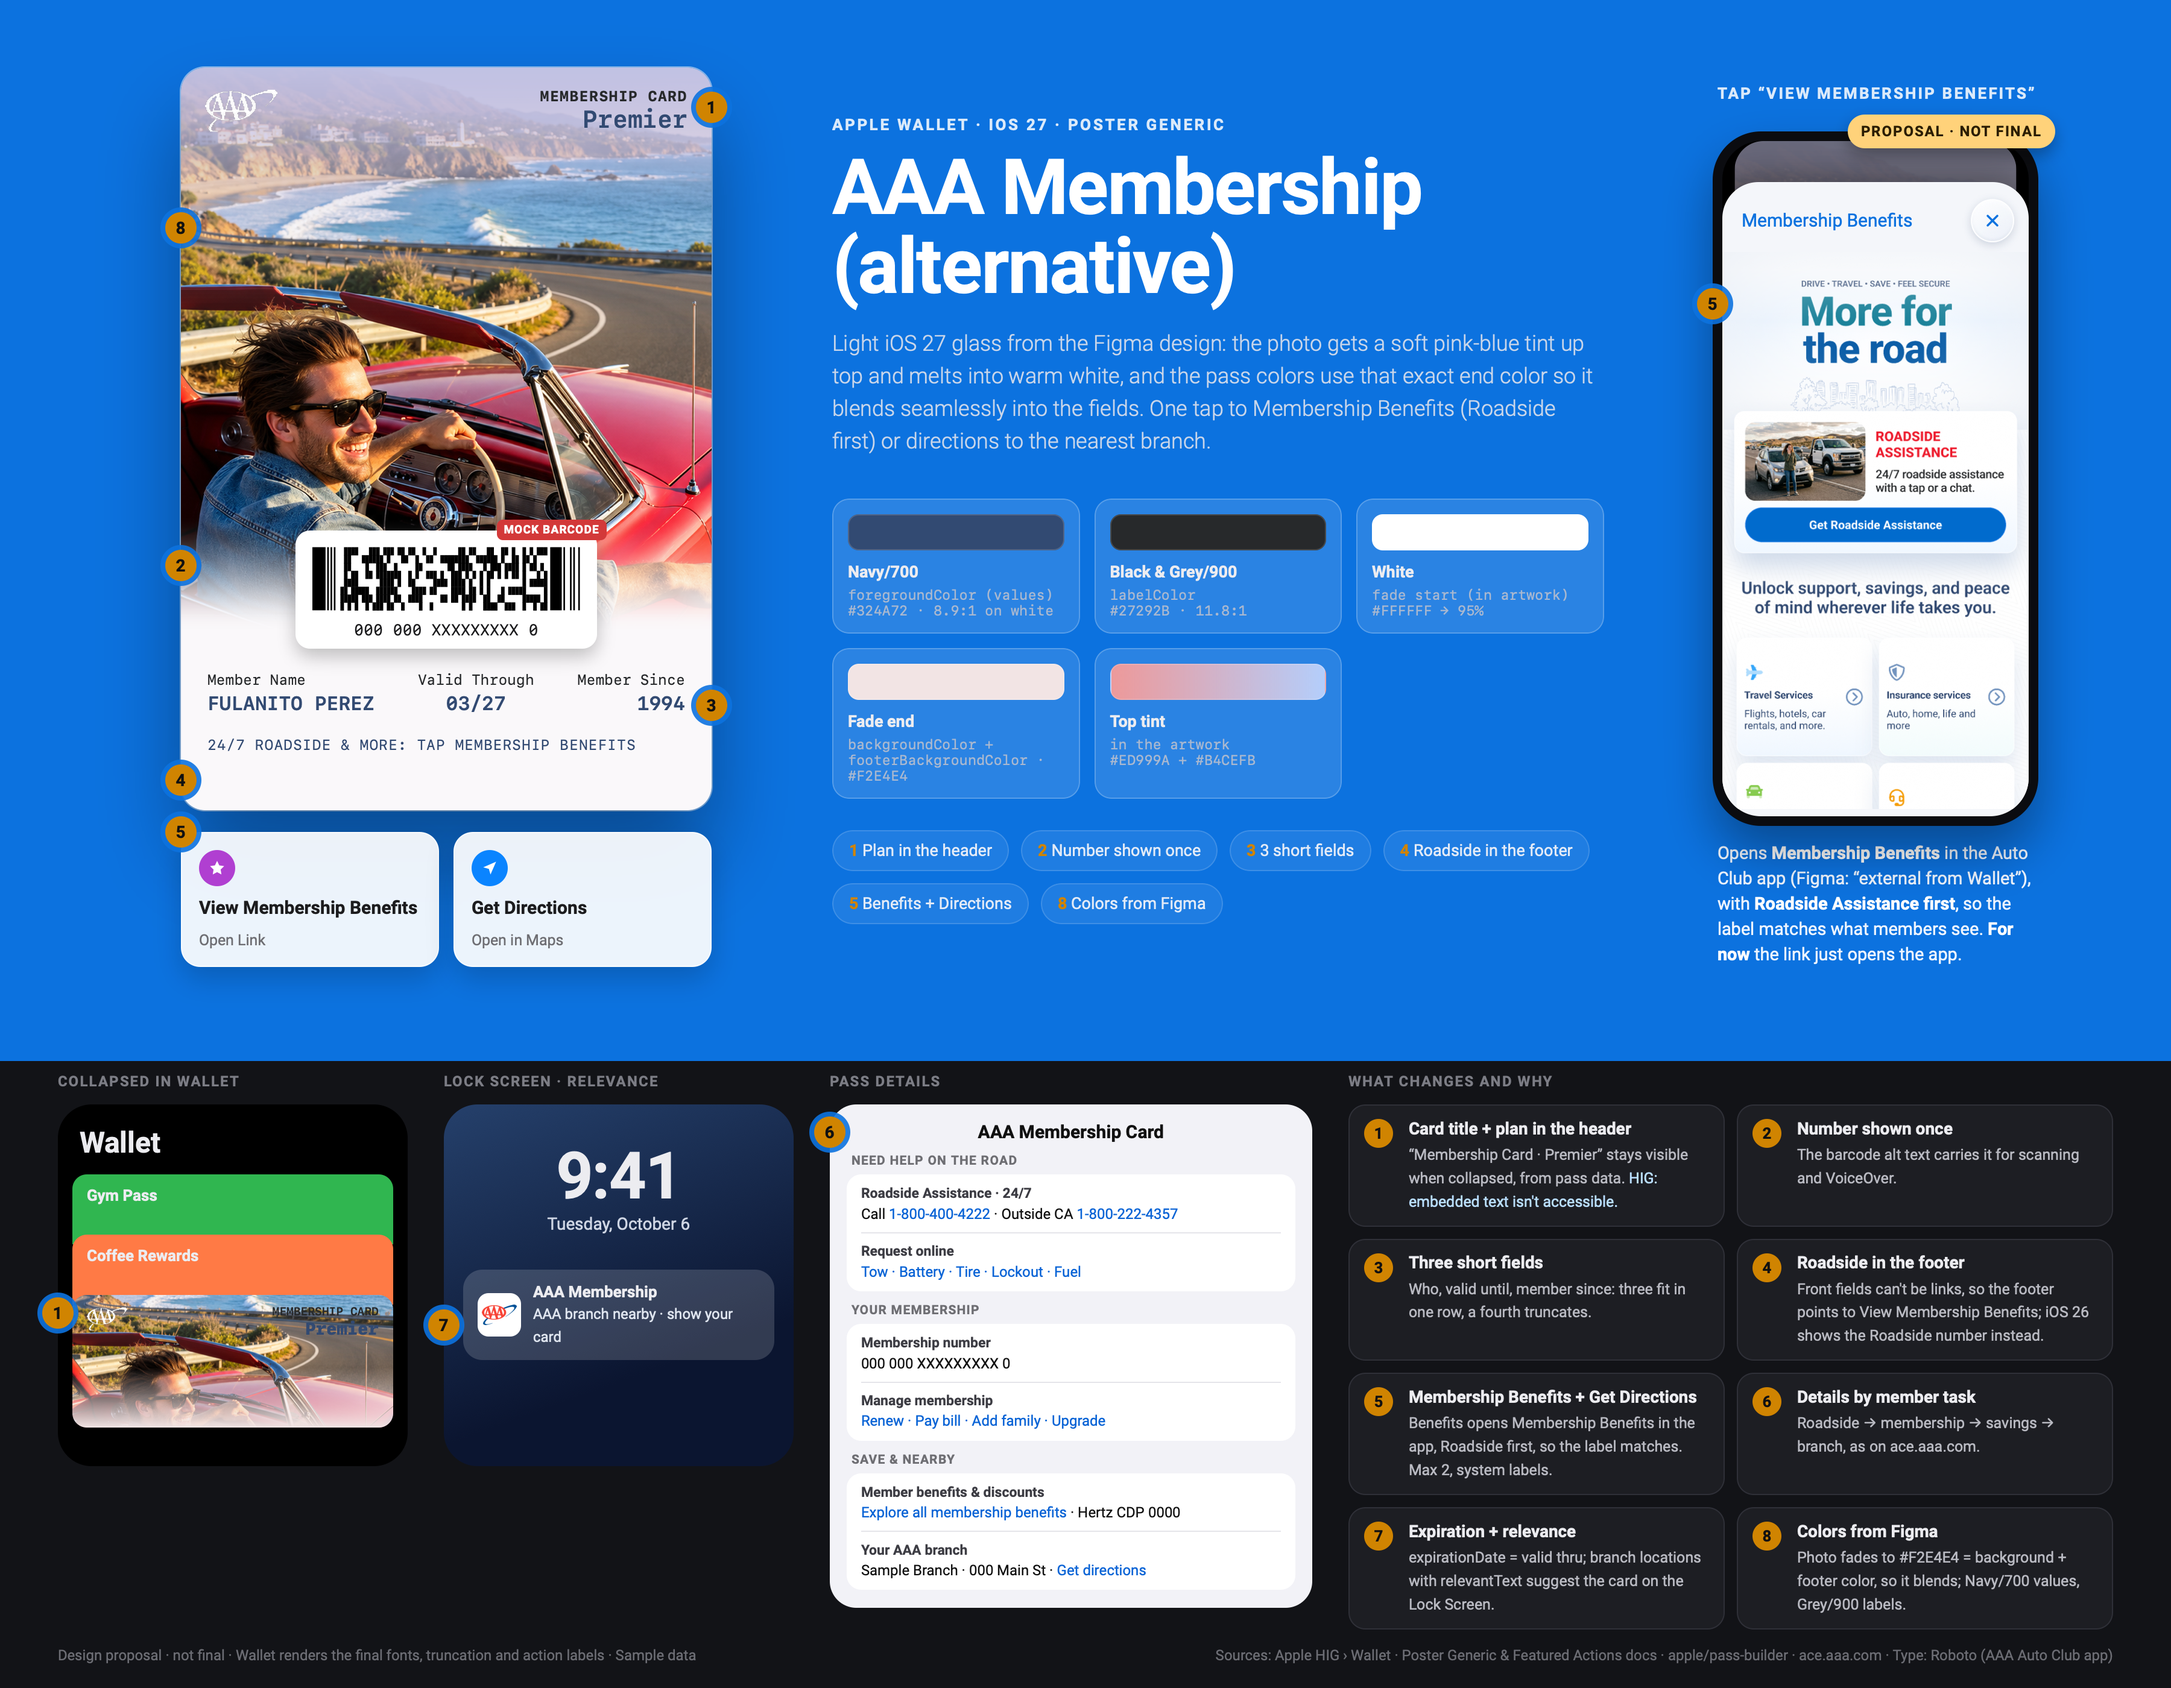
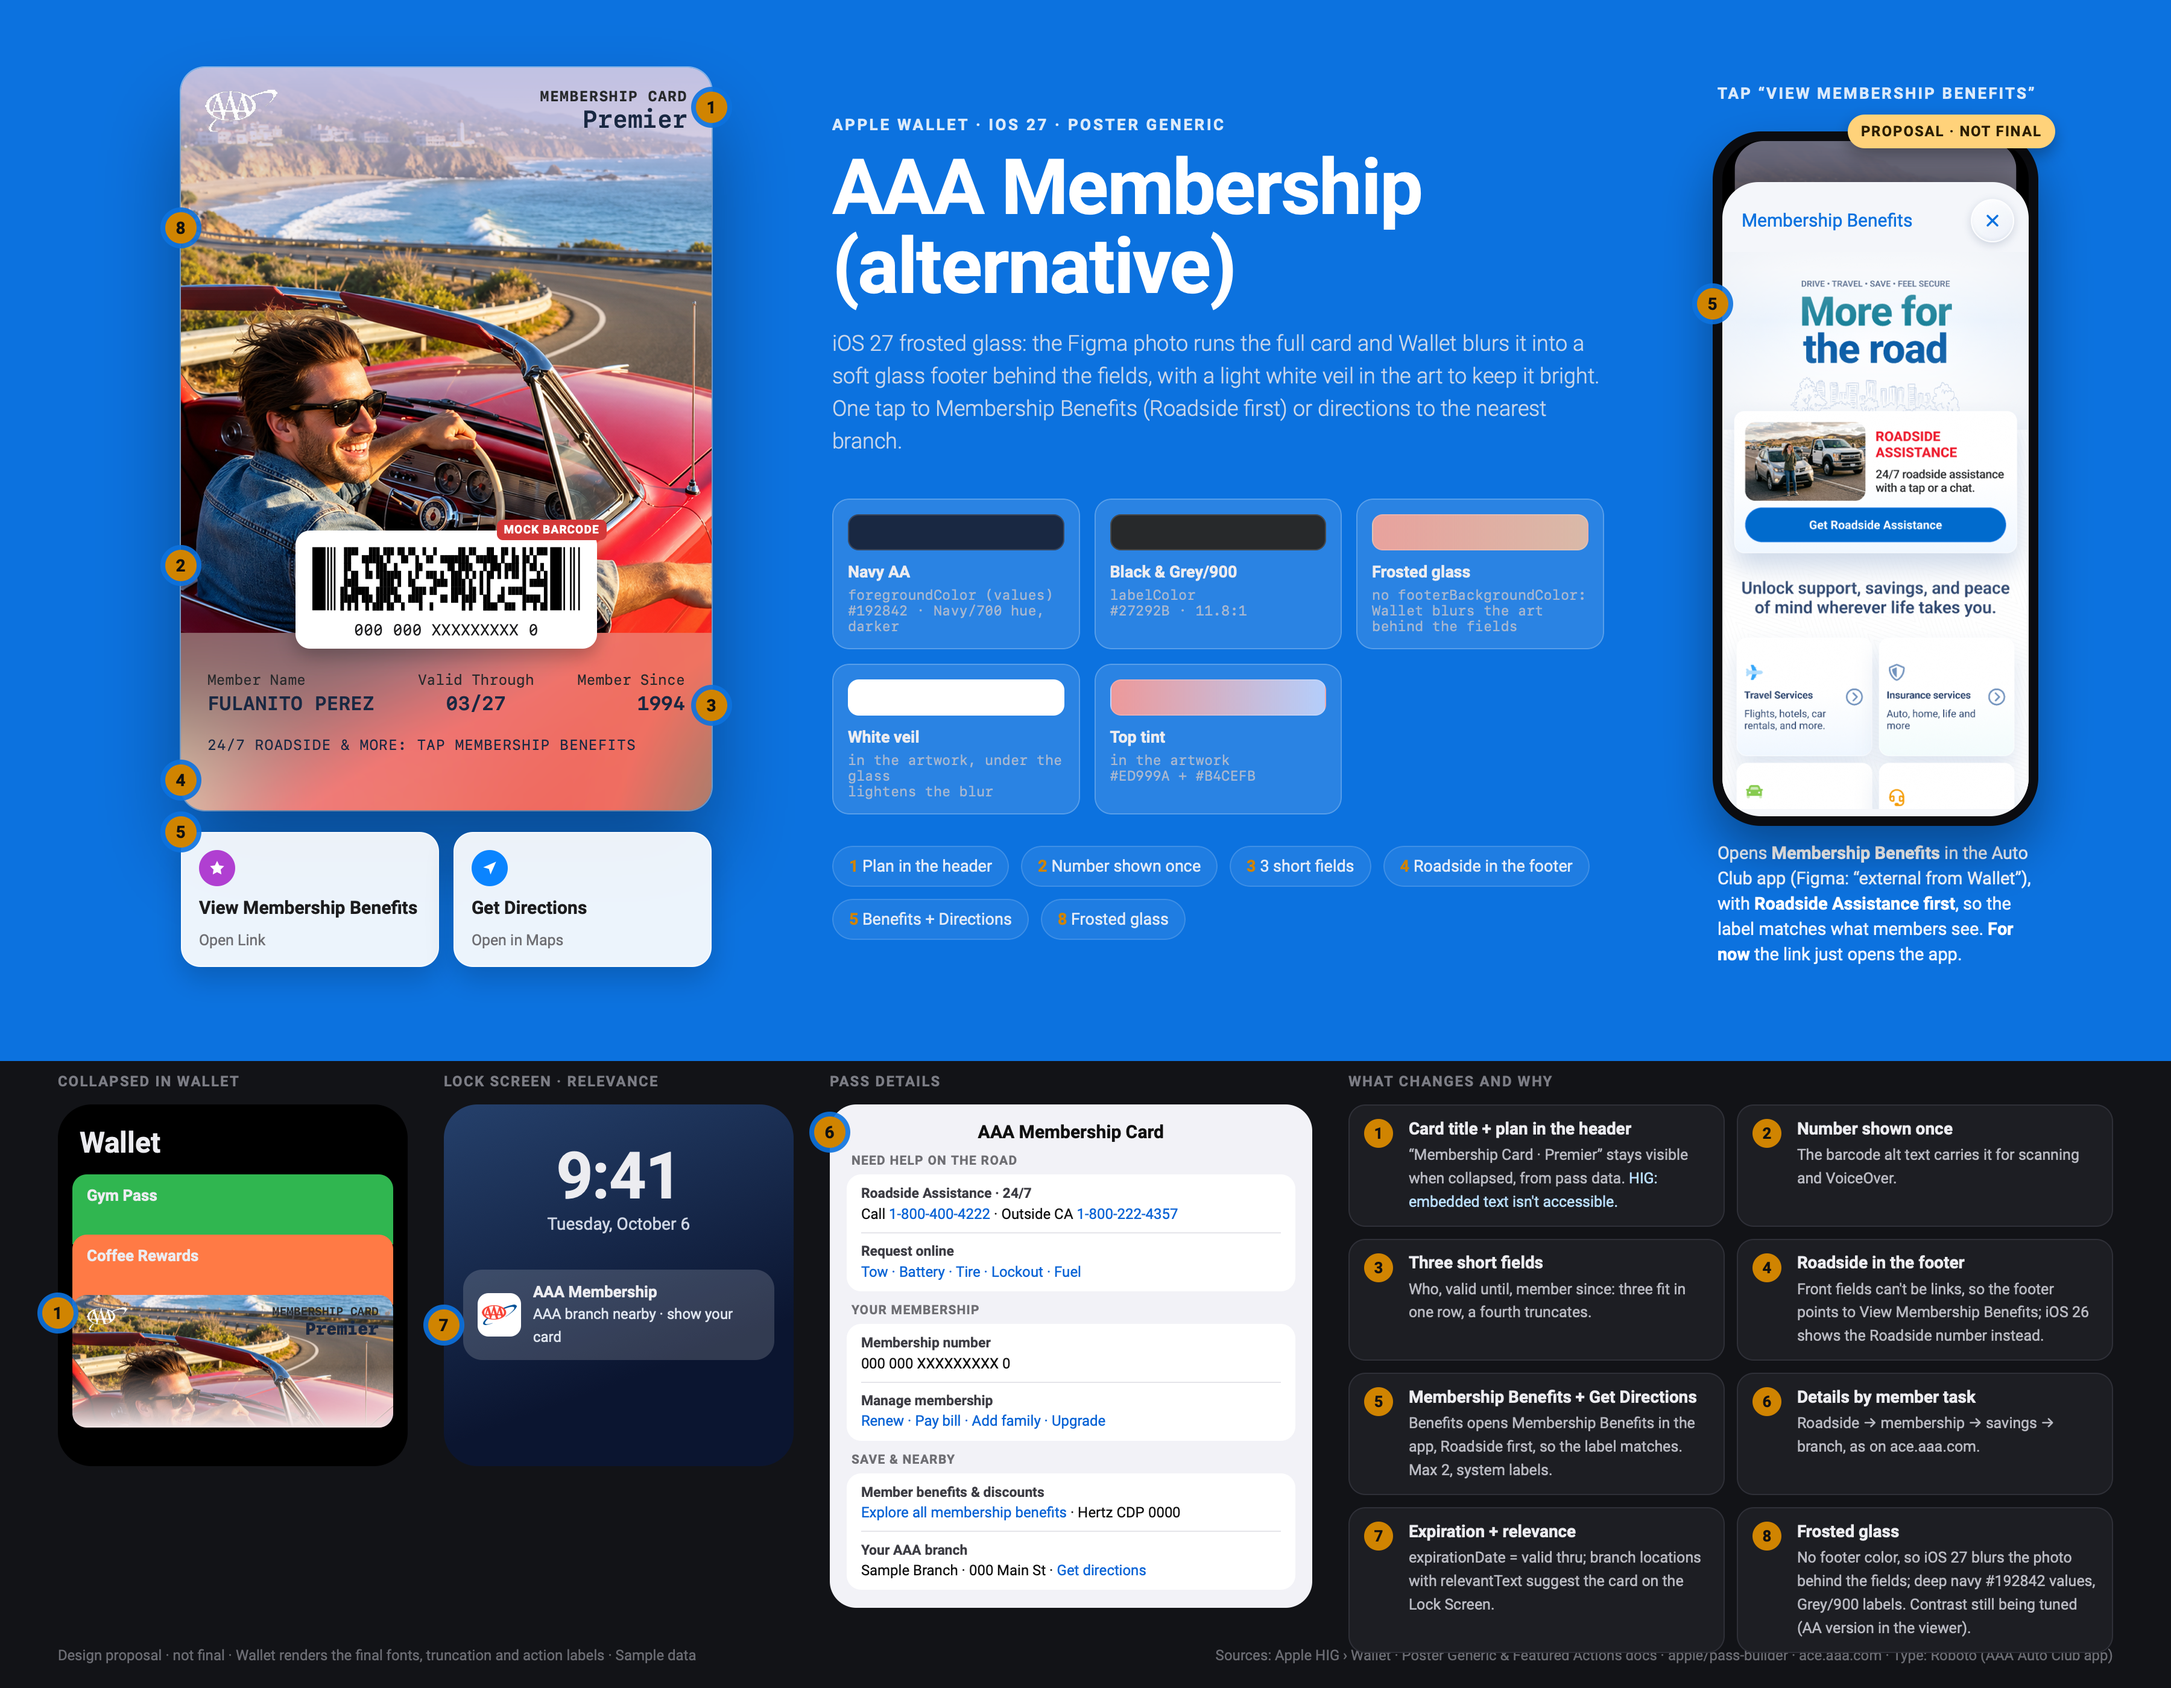
Proposal boards: iOS 27 frosted-glass look (Blur Glass membership, Alternative insurance), readable deep navy text

diff --git a/index.html b/index.html
@@ -735,18 +735,18 @@ html[data-theme="light"] .picker button.on,html[data-theme="light"] .vmode butto
     <section class="proposal" aria-labelledby="proposalTitle">
       <div class="proposal-h">
         <div><h2 id="proposalTitle">Design proposals <span class="credit">(the image canvas below and strings made by Claude, i just did the pass design and the web)</span></h2>
-        <p>A different take on both cards, now in the light iOS 27 glass look from the Figma design (iOS 27 WALLET page): Figma’s photos and top tints, the photo melts into the footer color set in the pass (#F2E4E4, like Pass Designer’s gradient), values in Navy/700 and labels in Grey/900. Everything here is stuff Apple Wallet actually supports. Grab one with Download template and drag it onto this page (or open it in Pass Designer), or just hit Open in viewer. The Membership and Insurance cards up top stay as they are.</p></div>
+        <p>A different take on both cards in the iOS 27 frosted-glass look from the Figma design (iOS 27 WALLET page): Figma’s photos run the full card and Wallet blurs them into a glass footer behind the fields, with deep navy (#192842) values and Grey/900 labels so the text stays readable. These are the nicer-looking versions; contrast is still being tuned (see the AA cards above). Everything here is stuff Apple Wallet actually supports. Grab one with Download template and drag it onto this page (or open it in Pass Designer), or just hit Open in viewer. The Membership and Insurance cards up top stay as they are.</p></div>
       </div>
       <div class="proposal-grid">
         <figure>
-          <figcaption><b>AAA Membership (alternative)</b><span class="fig-actions"><button type="button" data-tpl-dl="AAA Membership Card (Alternative).pkpasstemplate">Download template</button><button type="button" data-tpl-open="AAA Membership Card (Alternative).pkpasstemplate">Open in viewer</button><a href="proposal/aaa-membership-alternative@full.png" target="_blank" rel="noopener">Full size ↗</a></span></figcaption>
-          <a href="proposal/aaa-membership-alternative@full.png" target="_blank" rel="noopener" class="proposal-img"><img src="proposal/aaa-membership-alternative.jpg" loading="lazy" width="2400" height="1866"
-            alt="AAA Membership (alternative) in the light Figma glass design: the coastal convertible photo with a soft pink-blue tint melting into warm white, Membership Card · Premier header, barcode, member name, valid-through and member-since fields, the Membership Benefits footer, white View Membership Benefits and Get Directions actions, the Figma color palette, and the Membership Benefits screen marked proposal, not final. Below: collapsed card, Lock Screen suggestion, Pass Details and eight numbered notes."></a>
+          <figcaption><b>AAA Membership (alternative)</b><span class="fig-actions"><button type="button" data-tpl-dl="AAA Membership Card (Alternative Blur Glass).pkpasstemplate">Download template</button><button type="button" data-tpl-open="AAA Membership Card (Alternative Blur Glass).pkpasstemplate">Open in viewer</button><a href="proposal/aaa-membership-alternative@full.png?v=20261016" target="_blank" rel="noopener">Full size ↗</a></span></figcaption>
+          <a href="proposal/aaa-membership-alternative@full.png?v=20261016" target="_blank" rel="noopener" class="proposal-img"><img src="proposal/aaa-membership-alternative.jpg?v=20261016" loading="lazy" width="2400" height="1866"
+            alt="AAA Membership (alternative) in the iOS 27 frosted-glass design: the coastal convertible photo runs the full card and blurs into a glass footer behind the deep navy fields, barcode overlapping the glass, Membership Card · Premier header, and View Membership Benefits and Get Directions actions"></a>
         </figure>
         <figure>
-          <figcaption><b>AAA Insurance (alternative)</b><span class="fig-actions"><button type="button" data-tpl-dl="AAA Insurance Card (Alternative).pkpasstemplate">Download template</button><button type="button" data-tpl-open="AAA Insurance Card (Alternative).pkpasstemplate">Open in viewer</button><a href="proposal/aaa-insurance-alternative@full.png" target="_blank" rel="noopener">Full size ↗</a></span></figcaption>
-          <a href="proposal/aaa-insurance-alternative@full.png" target="_blank" rel="noopener" class="proposal-img"><img src="proposal/aaa-insurance-alternative.jpg" loading="lazy" width="2400" height="1866"
-            alt="AAA Insurance (alternative) in the light Figma glass design: the LA sunset photo with palms melting into warm white, CA Evidence of Liability · Auto Insurance Card header, name ensured, policy number and effective fields, the company in the footer, white View Membership Benefits and Get Directions actions, the Figma color palette, and the Membership Benefits screen marked proposal, not final. Below: collapsed card, Lock Screen suggestion, Pass Details and eight numbered notes."></a>
+          <figcaption><b>AAA Insurance (alternative)</b><span class="fig-actions"><button type="button" data-tpl-dl="AAA Insurance Card (Alternative).pkpasstemplate">Download template</button><button type="button" data-tpl-open="AAA Insurance Card (Alternative).pkpasstemplate">Open in viewer</button><a href="proposal/aaa-insurance-alternative@full.png?v=20261016" target="_blank" rel="noopener">Full size ↗</a></span></figcaption>
+          <a href="proposal/aaa-insurance-alternative@full.png?v=20261016" target="_blank" rel="noopener" class="proposal-img"><img src="proposal/aaa-insurance-alternative.jpg?v=20261016" loading="lazy" width="2400" height="1866"
+            alt="AAA Insurance (alternative) in the iOS 27 frosted-glass design: the LA sunset photo with palms runs the full card and blurs into a warm glass footer behind the deep navy fields, CA Evidence of Liability · Auto Insurance Card header, and View Membership Benefits and Get Directions actions"></a>
         </figure>
       </div>
     </section>
